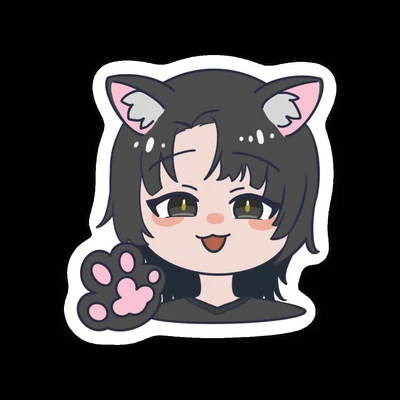
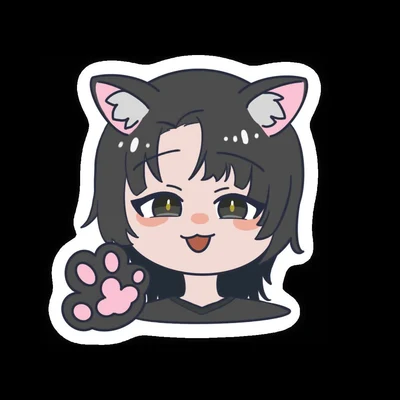
neruのアイコンを目と目の中間が円の中心に来るように寄せた

Changed region(s): [[0.12, 0.12, 0.84, 0.87], [0.54, 0.84, 0.63, 0.87], [0.42, 0.84, 0.51, 0.87]]

diff --git a/tools/build-vtuber.js b/tools/build-vtuber.js
@@ -197,8 +197,17 @@ async function ensureIcon(drive, name, slug, crop) {
       // 余白の色。既定は白。元の絵に背景色が焼き付いている人（neru＝黒地のステッカー）は
       // 白で足すと「白い丸の中に黒い四角」になるので、crop.padColor でその色に合わせる。
       const padColor = (crop && crop.padColor) || "#ffffff";
+      // 絵の位置をずらしたい時は、切り出す窓を動かすのではなく左右の余白の量を変える。
+      // 窓を動かすと絵の端（neruなら肉球）が欠けるが、余白なら欠けない。
+      //   nudgeX プラス＝絵が左へ／nudgeY プラス＝絵が上へ（どちらも一辺に対する割合）
+      const nx = Math.round(side * ((crop && crop.nudgeX) || 0));
+      const ny = Math.round(side * ((crop && crop.nudgeY) || 0));
       const padded = await sharp(await img.png().toBuffer())
-        .extend({ top: pad, bottom: pad, left: pad, right: pad, background: padColor })
+        .extend({
+          top: Math.max(0, pad - ny), bottom: Math.max(0, pad + ny),
+          left: Math.max(0, pad - nx), right: Math.max(0, pad + nx),
+          background: padColor,
+        })
         .png().toBuffer();
       img = sharp(padded);
     }
